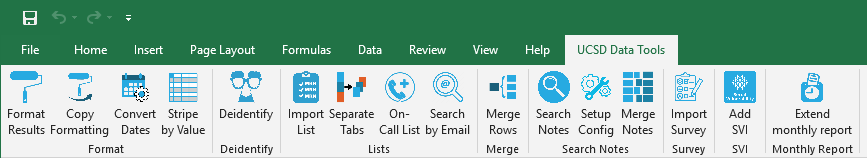
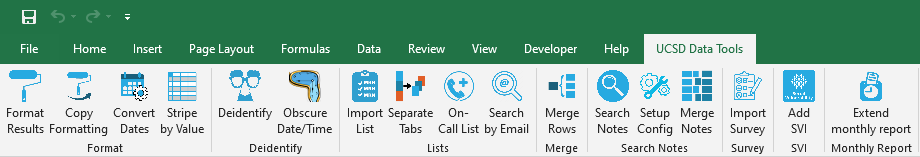
Add support for dithering MM/dd and MMMM yyyy patterns.

diff --git a/DECS Excel Add-Ins/Deidentifier.cs b/DECS Excel Add-Ins/Deidentifier.cs
@@ -20,12 +20,17 @@ namespace DECS_Excel_Add_Ins
     internal class Deidentifier
     {
         private Microsoft.Office.Interop.Excel.Application application;
-        private const string dateOnlyPattern = @"\d{1,2}\/\d{1,2}\/\d{4}((?!\d{1,2}:\d{2}\s[AP]M).)*$";
+        private const string dateOnlyPattern = @"\d{1,2}\/\d{1,2}\/\d{4}[\s\.](?!\d)";
+        private Regex dateOnlyRegex;
         private const string dateTimePattern = @"\d{1,2}\/\d{1,2}\/\d{4}\s+\d{1,2}:\d{2}\s[AP]M";
-        private const string justDatePattern = @"\d{1,2}\/\d{1,2}\/\d{4}";
+        private Regex dateTimeRegex;
+        private const string monthDayOnlyPattern = @"\d{1,2}\/\d{1,2}(?![\/\d])";
+        private Regex monthDayOnlyRegex;
+        private const string monthSpelledOutPattern = @"\w{4,8}\s*\d{4}";
+        private Regex monthSpelledOutRegex;
         private int dayOffset;
+        private int monthOffset;
         private int lastRow;
-        private Random rnd;
         private Range selectedColumnRng;
         private List<Range> selectedColumnsRng;
         private TimeSpan deltaT;
@@ -51,18 +56,45 @@ namespace DECS_Excel_Add_Ins
             return sOutput.ToString();
         }
 
-        private string ConvertDate(Match match)
+        private string TweakDateOnly(string dateString)
         {
-            DateTime payload = DateTime.Parse(match.Value.ToString().Trim());
-            DateTime payloadConverted = payload.AddDays(dayOffset);
-            return payloadConverted.ToString("M/d/yyyy");
+            DateTime payload = DateTime.Parse(dateString.Trim());
+            DateTime payloadTweaked = payload.AddDays(dayOffset);
+            string convertedDateString = payloadTweaked.ToString("M/d/yyyy");
+
+            // Special case: did the Regex absorb a trailing period or space?
+            if (dateString.EndsWith("."))
+            {
+                convertedDateString += ".";
+            }
+            
+            if (dateString.EndsWith(" "))
+            {
+                convertedDateString += " ";
+            }
+
+            return convertedDateString;
         }
 
-        private string ConvertDateTime(Match match)
+        private string TweakDateTime(string dateString)
         {
-            DateTime payload = DateTime.Parse(match.Value.ToString().Trim());
-            DateTime payloadConverted = payload.AddDays(dayOffset) + deltaT;
-            return payloadConverted.ToString("M/d/yyyy h:mm tt");
+            DateTime payload = DateTime.Parse(dateString.Trim());
+            DateTime payloadTweaked = payload.AddDays(dayOffset) + deltaT;
+            return payloadTweaked.ToString("M/d/yyyy h:mm tt");
+        }
+
+        private string TweakMonthDay(string dateString)
+        {
+            DateTime payload = DateTime.Parse(dateString.Trim());
+            DateTime payloadTweaked = payload.AddDays(dayOffset);
+            return payloadTweaked.ToString("M/d");
+        }
+
+        private string TweakMonthSpelledOut(string dateString)
+        {
+            DateTime payload = DateTime.Parse(dateString.Trim());
+            DateTime payloadTweaked = payload.AddMonths(monthOffset);
+            return payloadTweaked.ToString("MMMM yyyy");
         }
 
         private bool FindSelectedColumn(Worksheet worksheet)
@@ -179,17 +211,19 @@ namespace DECS_Excel_Add_Ins
 
         internal void ObscureDateTime(Worksheet worksheet)
         {
-            // Instantiate reusable Regexes.
-            Regex dateOnlyRegex = new Regex(dateOnlyPattern);
-            Regex dateTimeRegex = new Regex(dateTimePattern);
-            Regex justDateRegex = new Regex(justDatePattern);
-
             // Instantiate random number generator and random day, time offsets.
-            rnd = new Random();
+            Random rnd = new Random();
             dayOffset = rnd.Next(-7, 7);
+            monthOffset = rnd.Next(-2, 2);
             int hourOffset = rnd.Next(-3, 3);
             int minuteOffset = rnd.Next(-20, 20);
             deltaT = new TimeSpan(hourOffset, minuteOffset, 0);
+
+            // Instantiate reusable Regexes.
+            dateOnlyRegex = new Regex(dateOnlyPattern);
+            dateTimeRegex = new Regex(dateTimePattern);
+            monthDayOnlyRegex = new Regex(monthDayOnlyPattern);
+            monthSpelledOutRegex = new Regex(monthSpelledOutPattern);
 
             lastRow = worksheet.UsedRange.Rows.Count;
 
@@ -210,62 +244,41 @@ namespace DECS_Excel_Add_Ins
                 {
                     target = (Range)worksheet.Cells[rowNumber, ditheredColumn.Column];
                     sourceData = worksheet.Cells[rowNumber, selectedColumnRng.Column].Value;
-                    string targetData = string.Empty;
 
+                    // Modify & stuff into target cell.
                     if (!string.IsNullOrEmpty(sourceData))
                     {
-                        // First, search for & modify date/time values.
-                        Match match = dateTimeRegex.Match(sourceData);
-
-                        while (match.Success)
-                        {
-                            string beforeMatch = sourceData.Substring(0, match.Index);
-                            targetData += beforeMatch;
-                            targetData += ConvertDateTime(match);
-
-                            // Trim to just what's AFTER the match.
-                            sourceData = sourceData.Substring(match.Index + match.Value.Length);
-                            match = dateTimeRegex.Match(sourceData);
-                        }
-
-                        // Append whatever's left over.
-                        targetData += sourceData;
-
-                        // Second, search for & modify date-only values.
-                        match = dateOnlyRegex.Match(targetData);
-
-                        if (match.Success)
-                        {
-                            sourceData = targetData;
-                            targetData = string.Empty;
-
-                            string beforeMatch = sourceData.Substring(0, match.Index);
-                            targetData += beforeMatch;
-
-                            // Here the match.Value is the date AND EVERYTHING AFTER.
-                            string subSourceData = match.Value;
-                            Match justDateMatch = justDateRegex.Match(subSourceData);
-
-                            while (justDateMatch.Success)
-                            {
-                                beforeMatch = subSourceData.Substring(0, justDateMatch.Index);
-                                targetData += beforeMatch;
-                                targetData += ConvertDate(justDateMatch);
-
-                                // Trim to just what's AFTER the match.
-                                subSourceData = subSourceData.Substring(justDateMatch.Index + justDateMatch.Value.Length);
-                                justDateMatch = justDateRegex.Match(subSourceData);
-                            }
-
-                            // Append what was left over.
-                            targetData += subSourceData;
-                        }
-
-                        // Stuff into target cell.
-                        target.Value = targetData;
+                        sourceData = ProcessOneRule(sourceData, dateTimeRegex, TweakDateTime);
+                        sourceData = ProcessOneRule(sourceData, dateOnlyRegex, TweakDateOnly);
+                        sourceData = ProcessOneRule(sourceData, monthDayOnlyRegex, TweakMonthDay);
+                        sourceData = ProcessOneRule(sourceData, monthSpelledOutRegex, TweakMonthSpelledOut);
                     }
+
+                    target.Value = sourceData;
                 }
             }
+        }
+
+        private string ProcessOneRule(string sourceData, Regex regex, Func<string, string> convert)
+        {
+            Match match = regex.Match(sourceData);
+            string targetData = string.Empty;
+
+            while (match.Success)
+            {
+                string beforeMatch = sourceData.Substring(0, match.Index);
+                targetData += beforeMatch;
+                targetData += convert(match.Value.ToString());
+
+                // Trim to just what's AFTER the match.
+                sourceData = sourceData.Substring(match.Index + match.Value.Length);
+                match = regex.Match(sourceData);
+            }
+
+            // Append whatever's left over.
+            targetData += sourceData;
+
+            return targetData;
         }
     }
 }

diff --git a/README.md b/README.md
@@ -12,6 +12,7 @@ Creates custom buttons in Microsoft Excel & Word that allow user to:
 * Convert dates from [MUMPS](https://en.wikipedia.org/wiki/MUMPS) to Excel standard.
 * Highlight blocks of data.
 * Generate unique, scrambled identifiers from patient or user data.
+* Dither dates/times to deidentify patients.
 * Turn a list (of MRNs, ICD codes, etc.) into a SQL snippet that imports the column into a query.
 * Break up a long spreadsheet into individual sheets, using the value of one column.
 * Process a physician oncall list into SQL code for import.
